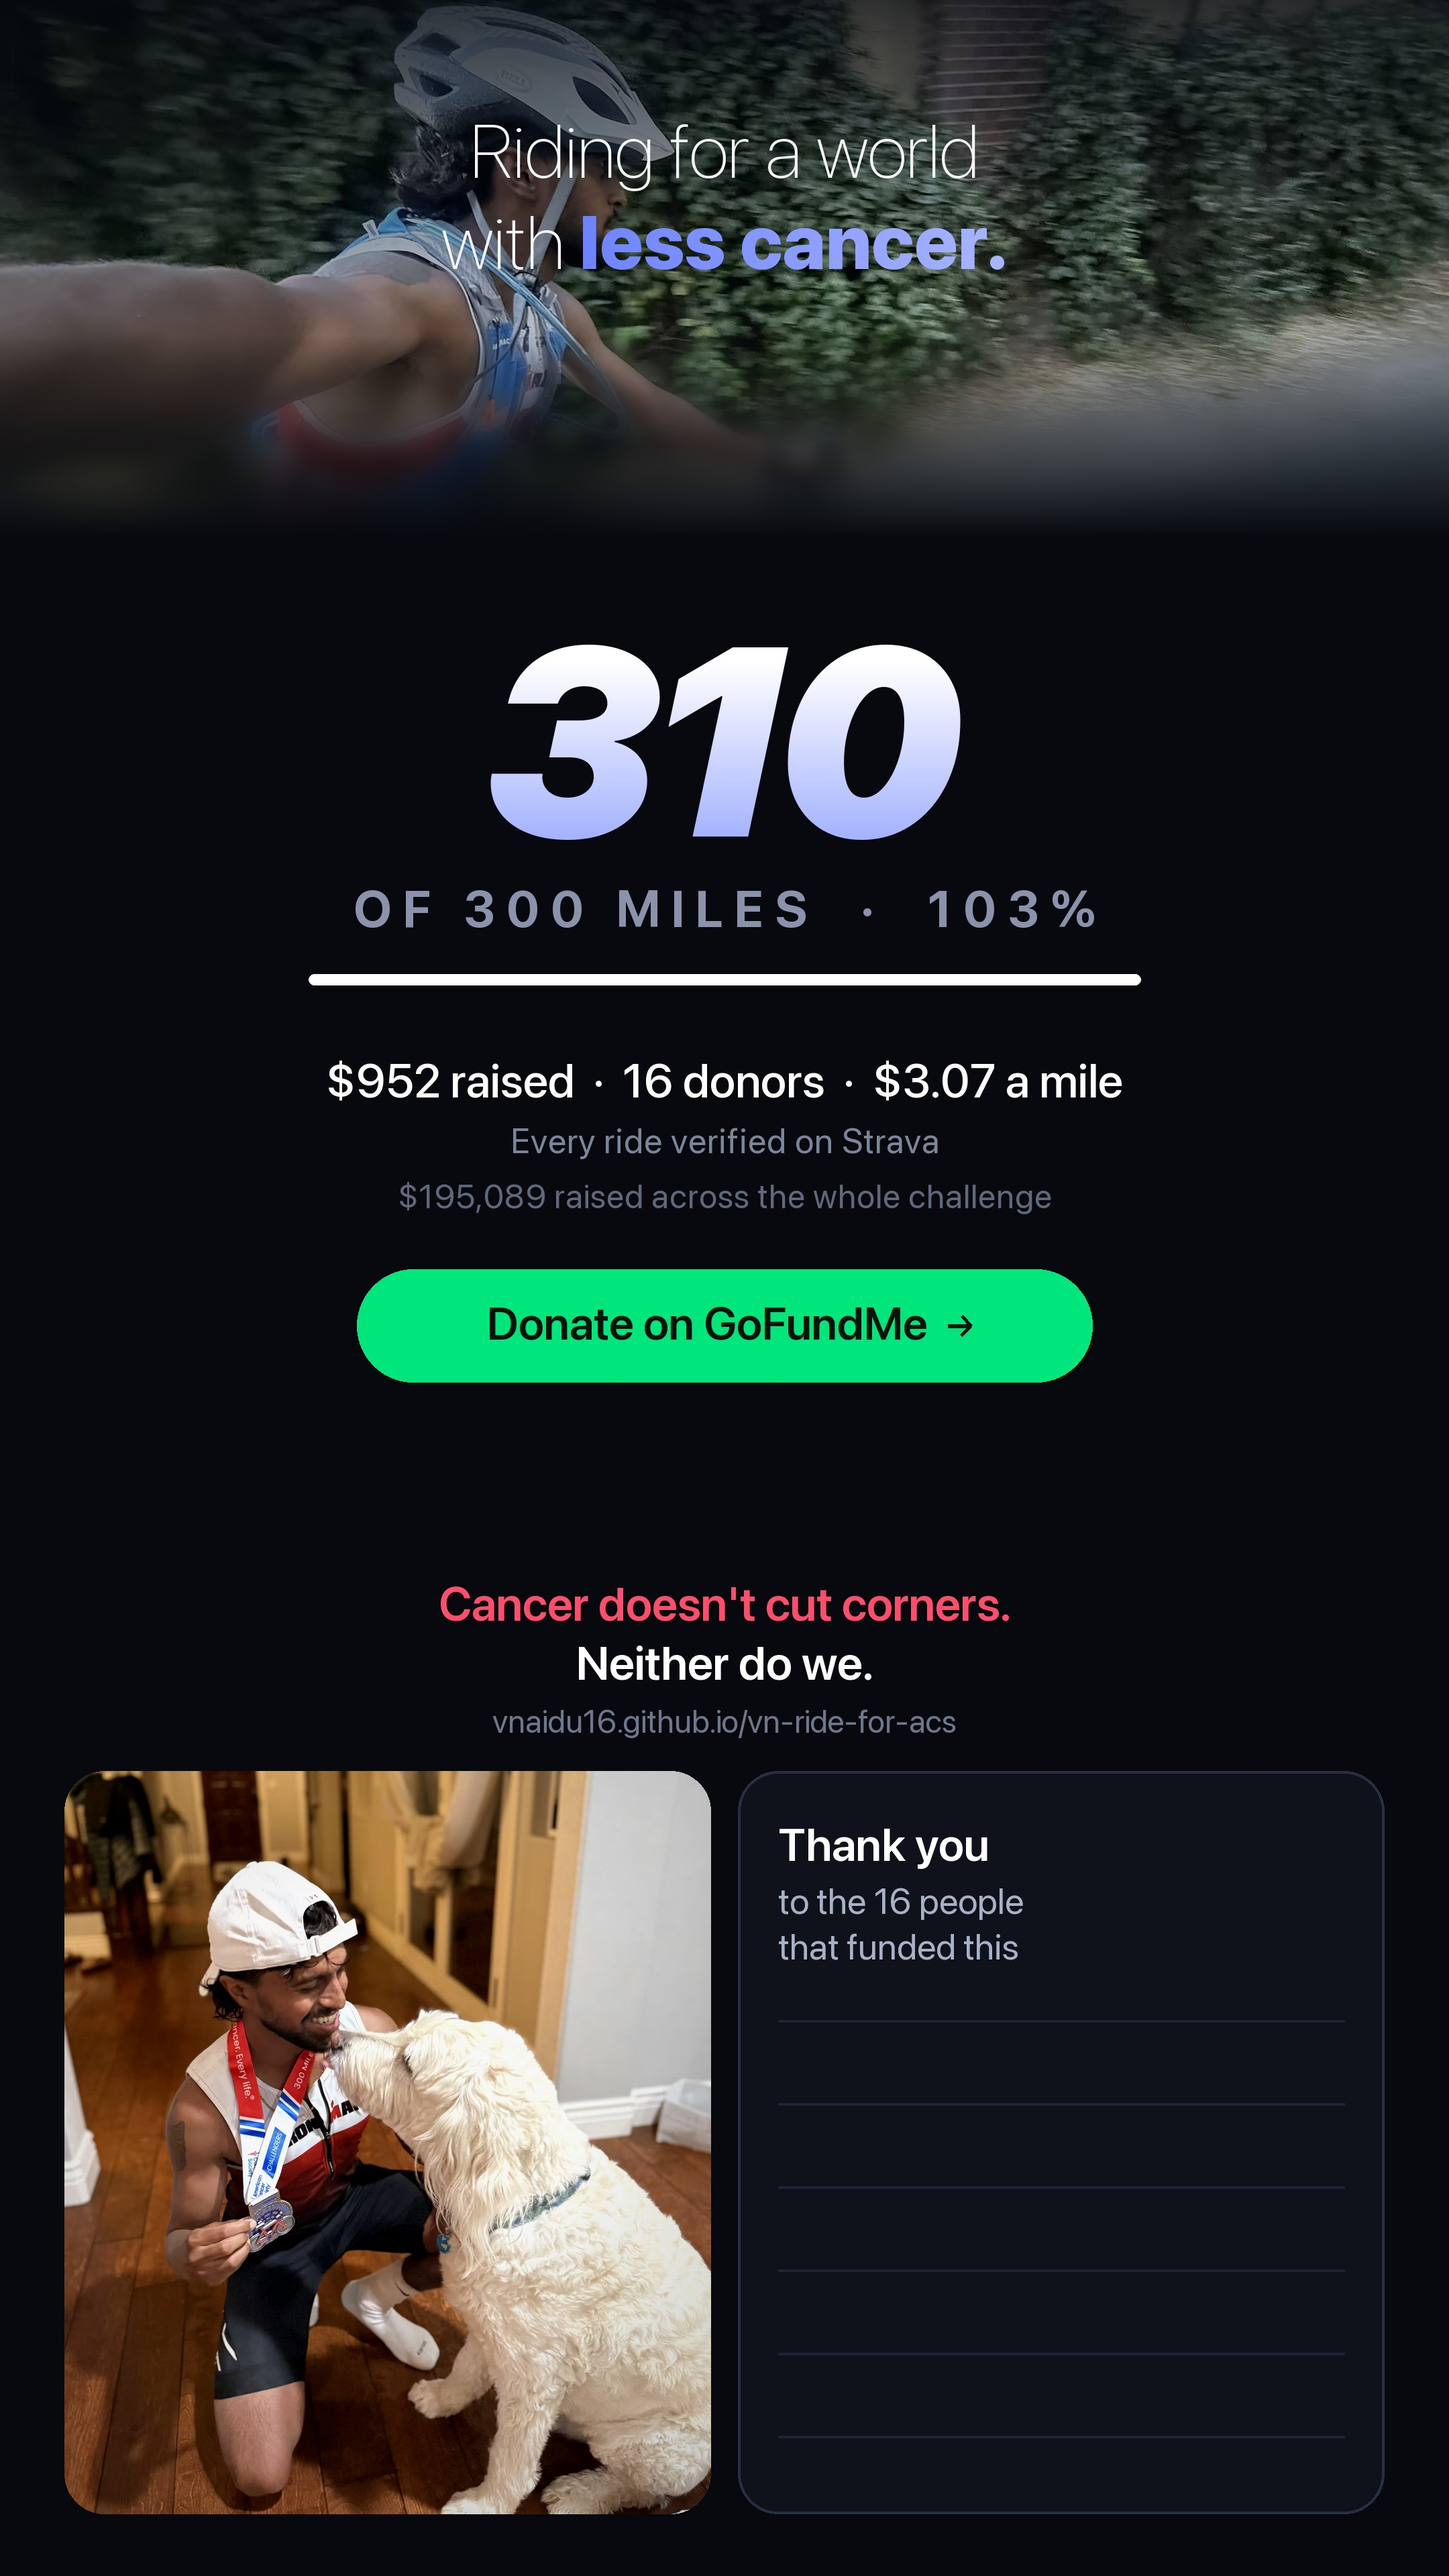
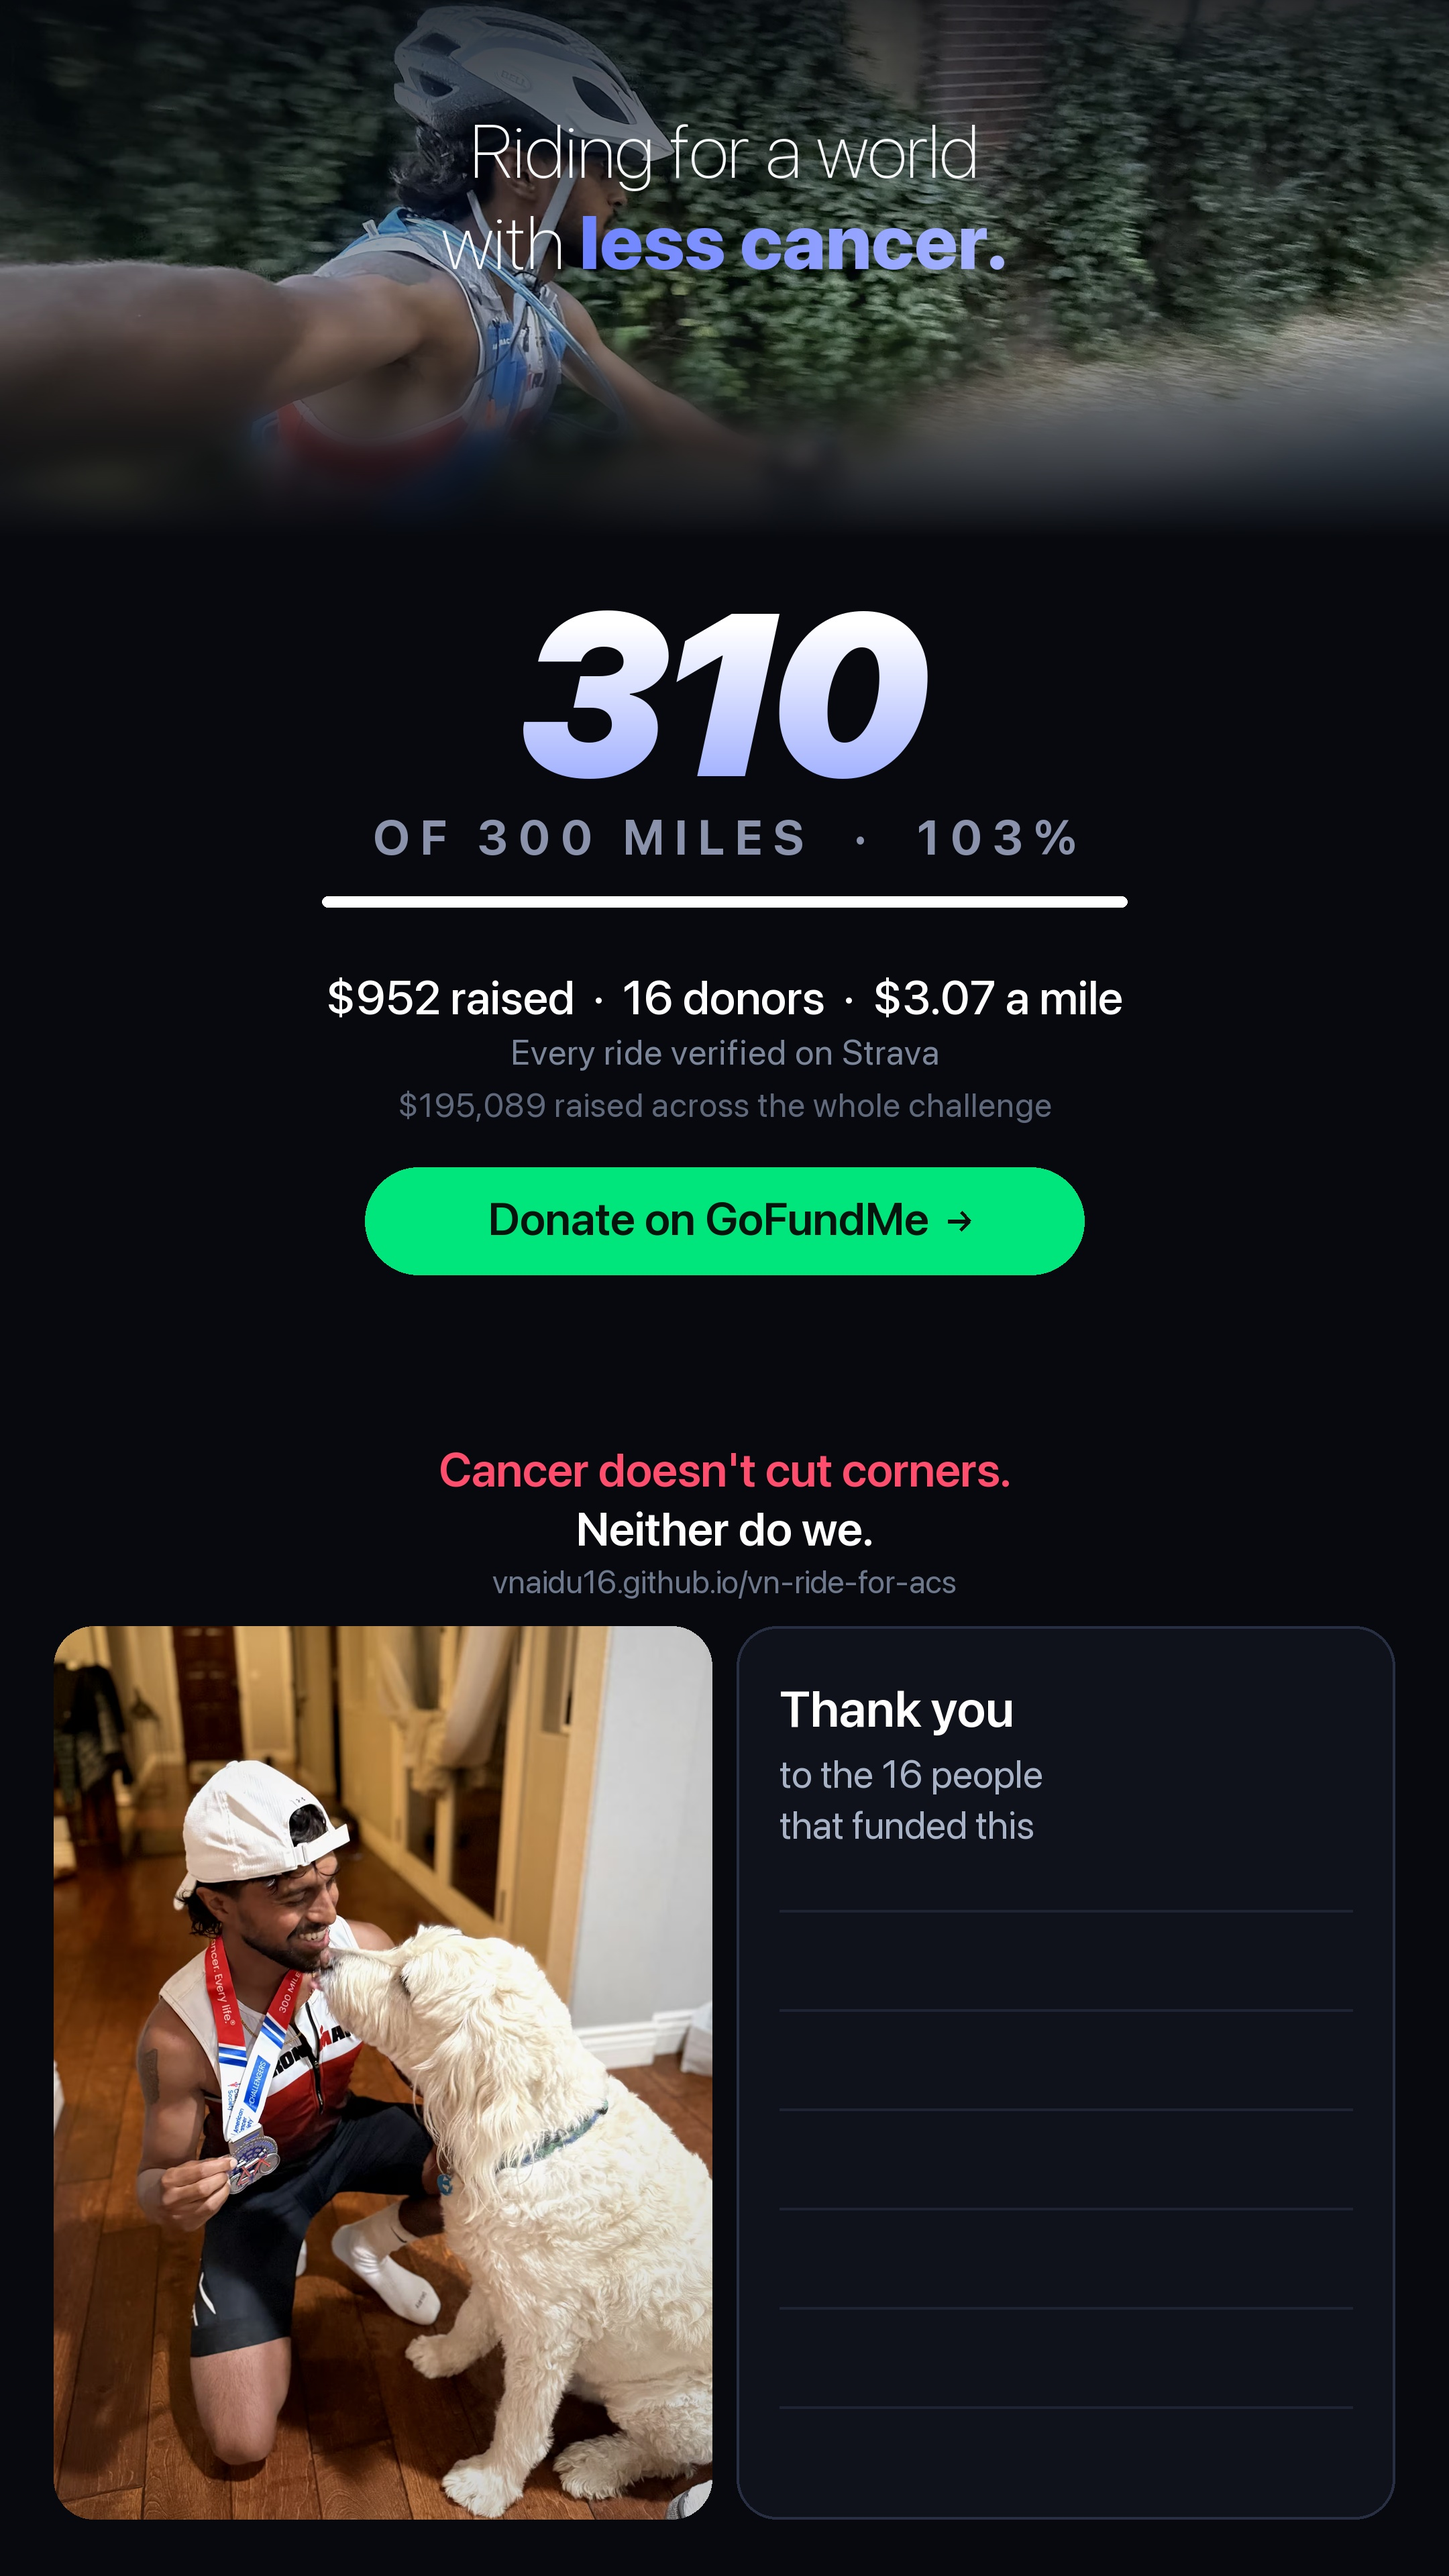
Tighten the middle so the photo and thank you cards can grow
The stack between the headline and the tagline gives back about 110 points:
smaller number, tighter leading, shorter button. All of it goes to the two
cards at the foot, which are the part V actually wants people looking at.

Cards are roughly a fifth taller and slightly wider, and the thank you card's
type scales with them rather than sitting small in a big box.

Claude-Session: https://claude.ai/code/session_01NH75BrgSUeWBYsvkeeFkNz

Changed region(s): [[0.031, 0.2188, 0.7755, 1.0]]

diff --git a/tools/make_cards.py b/tools/make_cards.py
@@ -530,12 +530,12 @@ def build_story(ride, medal, done, goal, rng, raised, money_goal, donors, allrid
 
     pct = done / goal
     num = str(int(round(done)))
-    base, _ = milesnum(base, CX, P(430), num, P(200))
+    base, _ = milesnum(base, CX, P(412), num, P(172))
     d = ImageDraw.Draw(base)
-    ctext(d, CX, P(654), "OF %d MILES  \u00b7  %d%%" % (goal, round(pct * 100)),
-          sf(P(38), "Bold"), (138, 147, 171), P(8.5))
+    ctext(d, CX, P(602), "OF %d MILES  \u00b7  %d%%" % (goal, round(pct * 100)),
+          sf(P(36), "Bold"), (138, 147, 171), P(8))
 
-    BW, BH, BY = P(620), P(8), P(726)
+    BW, BH, BY = P(600), P(8), P(668)
     d.rounded_rectangle([CX - BW / 2, BY, CX + BW / 2, BY + BH], radius=BH // 2,
                         fill=(32, 38, 54))
     fwid = int(BW * min(1.0, pct))
@@ -544,28 +544,28 @@ def build_story(ride, medal, done, goal, rng, raised, money_goal, donors, allrid
                             radius=BH // 2, fill=(255, 255, 255))
 
     permile = ("$%.2f a mile" % (raised / done)) if done else ""
-    ctext(d, CX, P(784), "$%s raised  \u00b7  %d donors  \u00b7  %s"
+    ctext(d, CX, P(722), "$%s raised  \u00b7  %d donors  \u00b7  %s"
           % (format(raised, ","), donors, permile), sf(P(35), "Medium"), (255, 255, 255), P(0.2))
-    ctext(d, CX, P(834), "Every ride verified on Strava",
+    ctext(d, CX, P(768), "Every ride verified on Strava",
           sf(P(26), "Regular"), (124, 134, 154), P(0.4))
     if allriders:
-        ctext(d, CX, P(876), "$%s raised across the whole challenge" % format(allriders, ","),
+        ctext(d, CX, P(808), "$%s raised across the whole challenge" % format(allriders, ","),
               sf(P(25), "Regular"), (96, 105, 124), P(0.4))
 
-    base = pill(base, CX, P(946), P(548), P(84), "Donate on GoFundMe",
+    base = pill(base, CX, P(870), P(536), P(80), "Donate on GoFundMe",
                 sf(P(34), "Semibold"), (0, 229, 124), (6, 20, 13))
 
-    # P(1046) to P(1160): kept clear, and wider than before, for the link sticker.
+    # P(950) to P(1060): kept clear for the link sticker.
 
-    ctext(d, CX, P(1174), "Cancer doesn't cut corners.", sf(P(35), "Semibold"), (255, 77, 109))
-    ctext(d, CX, P(1218), "Neither do we.", sf(P(35), "Semibold"), (255, 255, 255))
-    ctext(d, CX, P(1268), "vnaidu16.github.io/vn-ride-for-acs",
+    ctext(d, CX, P(1074), "Cancer doesn't cut corners.", sf(P(35), "Semibold"), (255, 77, 109))
+    ctext(d, CX, P(1118), "Neither do we.", sf(P(35), "Semibold"), (255, 255, 255))
+    ctext(d, CX, P(1164), "vnaidu16.github.io/vn-ride-for-acs",
           sf(P(24), "Regular"), (110, 120, 140))
 
-    CARD_Y = P(1320)
-    M, GAP, rad = P(48), P(20), P(30)
+    CARD_Y = P(1212)
+    M, GAP, rad = P(40), P(18), P(30)
     CWd = (W - M * 2 - GAP) // 2
-    CH = H - CARD_Y - P(46)
+    CH = H - CARD_Y - P(42)
     mask = Image.new("L", (CWd, CH), 0)
     ImageDraw.Draw(mask).rounded_rectangle([0, 0, CWd - 1, CH - 1], radius=rad, fill=255)
 
@@ -579,14 +579,14 @@ def build_story(ride, medal, done, goal, rng, raised, money_goal, donors, allrid
     card = Image.new("RGB", (CWd, CH), (15, 18, 27))
     cd = ImageDraw.Draw(card)
     cd.rounded_rectangle([0, 0, CWd - 1, CH - 1], radius=rad, outline=(40, 47, 66), width=P(2))
-    cd.text((P(30), P(34)), "Thank you", font=sf(P(34), "Semibold"), fill=(255, 255, 255))
-    cd.text((P(30), P(80)), "to the %d people" % donors, font=sf(P(27), "Regular"),
+    cd.text((P(32), P(38)), "Thank you", font=sf(P(38), "Semibold"), fill=(255, 255, 255))
+    cd.text((P(32), P(92)), "to the %d people" % donors, font=sf(P(29), "Regular"),
             fill=(168, 178, 198))
-    cd.text((P(30), P(114)), "that funded this", font=sf(P(27), "Regular"),
+    cd.text((P(32), P(130)), "that funded this", font=sf(P(29), "Regular"),
             fill=(168, 178, 198))
     for i in range(6):
-        yy = P(186) + i * P(62)
-        cd.line([(P(30), yy), (CWd - P(30), yy)], fill=(30, 36, 52), width=P(2))
+        yy = P(212) + i * P(74)
+        cd.line([(P(32), yy), (CWd - P(32), yy)], fill=(30, 36, 52), width=P(2))
     base.paste(card, (bx, CARD_Y), mask)
     return base
 
